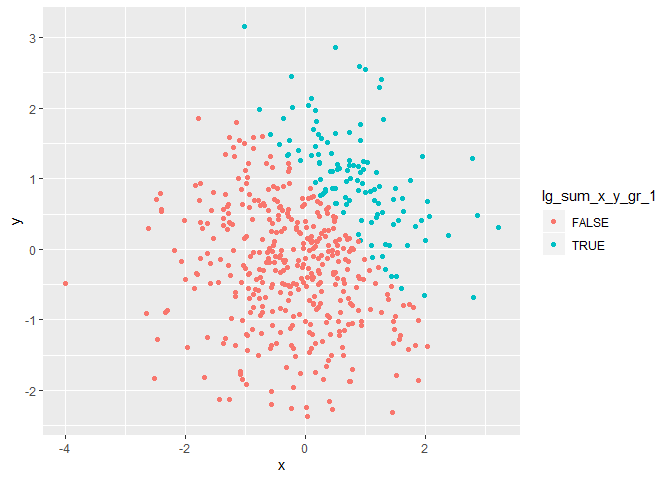
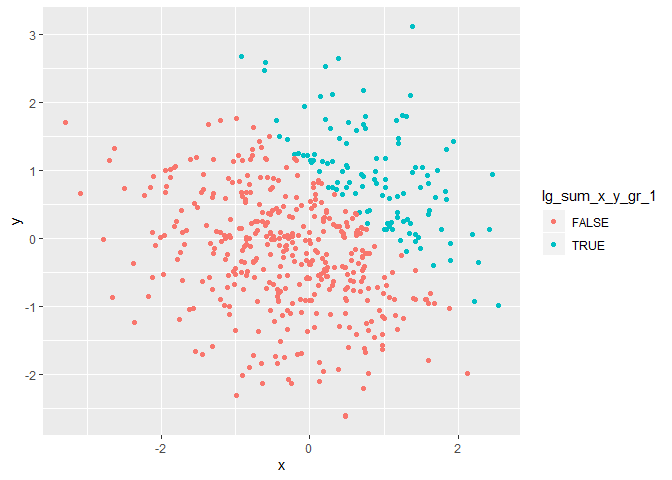
Edit problem 2 text
Add clarification about plot coloring.

diff --git a/p8105_hw1_jfh2150.md b/p8105_hw1_jfh2150.md
@@ -48,7 +48,7 @@ df_problem_1 %>%
     ## # A tibble: 1 x 4
     ##   nm_random_sample lg_sample_gr_0 ch_vector ft_vector
     ##              <dbl>          <dbl>     <dbl>     <dbl>
-    ## 1           0.0299            0.5        NA        NA
+    ## 1         0.000195            0.5        NA        NA
 
 Applying the `as.numeric` function to the non-numeric variables in the
 data frame successfully converts all 3 vectors to numeric in my example.
@@ -99,8 +99,8 @@ nm_random_sample = df_problem_1 %>%
 nm_converted_vector * nm_random_sample
 ```
 
-    ## [1] 0.0000000 1.2192443 1.4269809 0.0000000 0.0000000 0.4946278 0.0000000
-    ## [8] 0.8917137
+    ## [1] 0.796652811 0.000000000 0.000000000 0.605616761 0.002771289 1.013639646
+    ## [7] 0.000000000 0.000000000
 
 ``` r
 # (b)
@@ -128,8 +128,8 @@ nm_reconverted_vector = ft_converted_vector %>%
 nm_reconverted_vector * nm_random_sample
 ```
 
-    ## [1] -1.8246707  2.4384886  2.8539617 -0.7021587 -0.4806144  0.9892557
-    ## [7] -0.7859429  1.7834274
+    ## [1]  1.593305622 -0.590345692 -0.666530248  1.211233523  0.005542577
+    ## [6]  2.027279292 -0.237314601 -0.922927315
 
 ## Problem 2
 
@@ -150,8 +150,8 @@ and the second two were created by coercing that vector to numeric and
 factor types.
 
 The data frame is thus comprised of 500 rows and 5 columns. Column `x`
-has a mean of -0.0211638, a median of 0.0715039, and standard deviation
-of 1.0041913. The proportion of cases where `x + y > 1` is 0.226.
+has a mean of -0.0643036, a median of -0.0026686, and standard deviation
+of 1.0195463. The proportion of cases where `x + y > 1` is 0.224.
 
 The scatterplots displayed below show `x` plotted against `y`. In each
 plot, the points are colored by one of the three indicators.
@@ -190,7 +190,8 @@ ggplot(df_problem_2, aes(x = x, y = y, color = nm_sum_x_y_gr_1)) +
 
 The final plot is colored by the factor indicator derived from the
 logical indicator. As with the logical indicator, the color scale
-contains only the two discrete factor values of `TRUE` and `FALSE`.
+contains only the two discrete factor values of `TRUE` and `FALSE`,
+indicating whether or not the point falls *above* the line `y = -x + 1`.
 
 ``` r
 # scatterplot colored by factor vector
